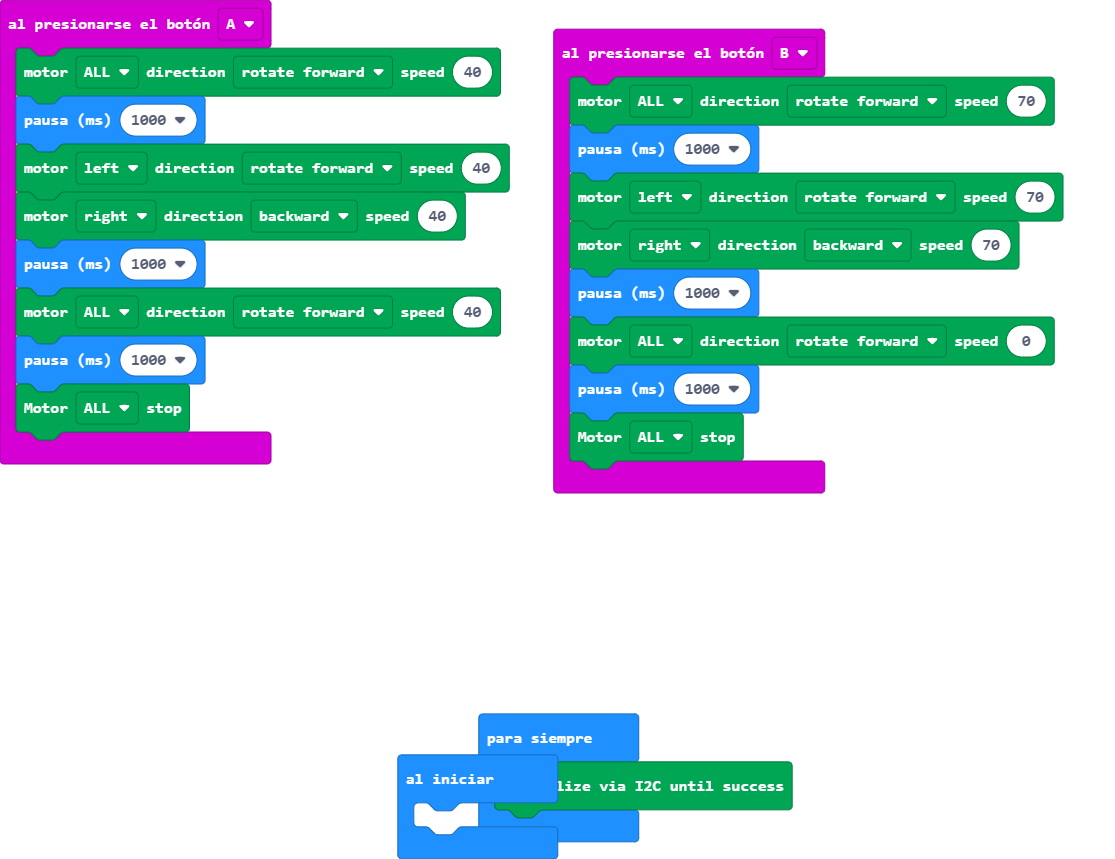
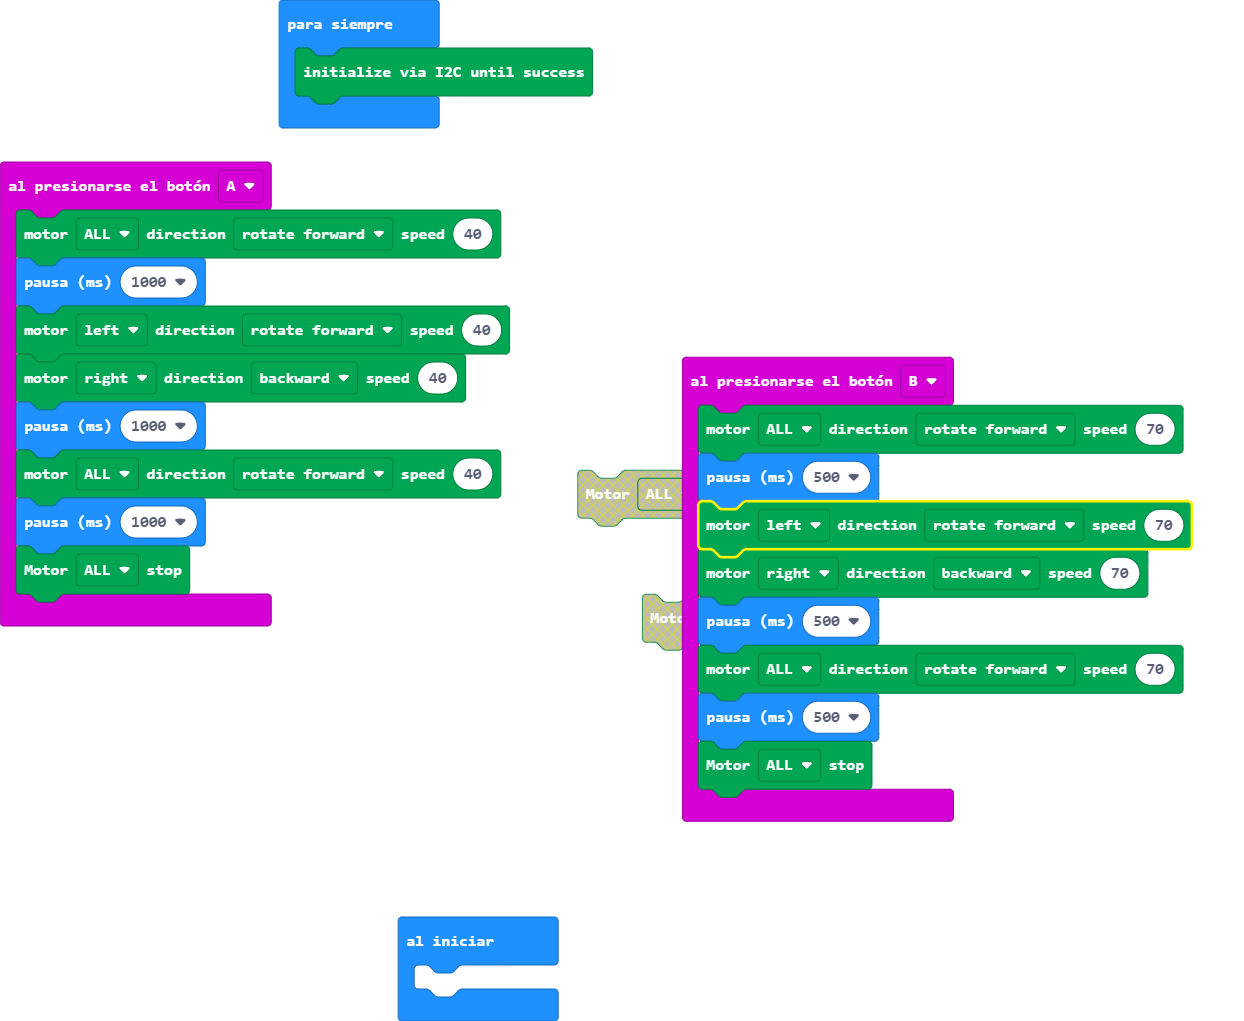
Actualizar main.blocks, main.ts

diff --git a/main.ts b/main.ts
@@ -10,12 +10,12 @@ input.onButtonPressed(Button.A, function () {
 })
 input.onButtonPressed(Button.B, function () {
     DFRobotMaqueenPlus.mototRun(Motors.ALL, Dir.CW, 70)
-    basic.pause(1000)
+    basic.pause(500)
     DFRobotMaqueenPlus.mototRun(Motors.M1, Dir.CW, 70)
     DFRobotMaqueenPlus.mototRun(Motors.M2, Dir.CCW, 70)
-    basic.pause(1000)
-    DFRobotMaqueenPlus.mototRun(Motors.ALL, Dir.CW, 0)
-    basic.pause(1000)
+    basic.pause(500)
+    DFRobotMaqueenPlus.mototRun(Motors.ALL, Dir.CW, 70)
+    basic.pause(500)
     DFRobotMaqueenPlus.mototStop(Motors.ALL)
 })
 basic.forever(function () {
